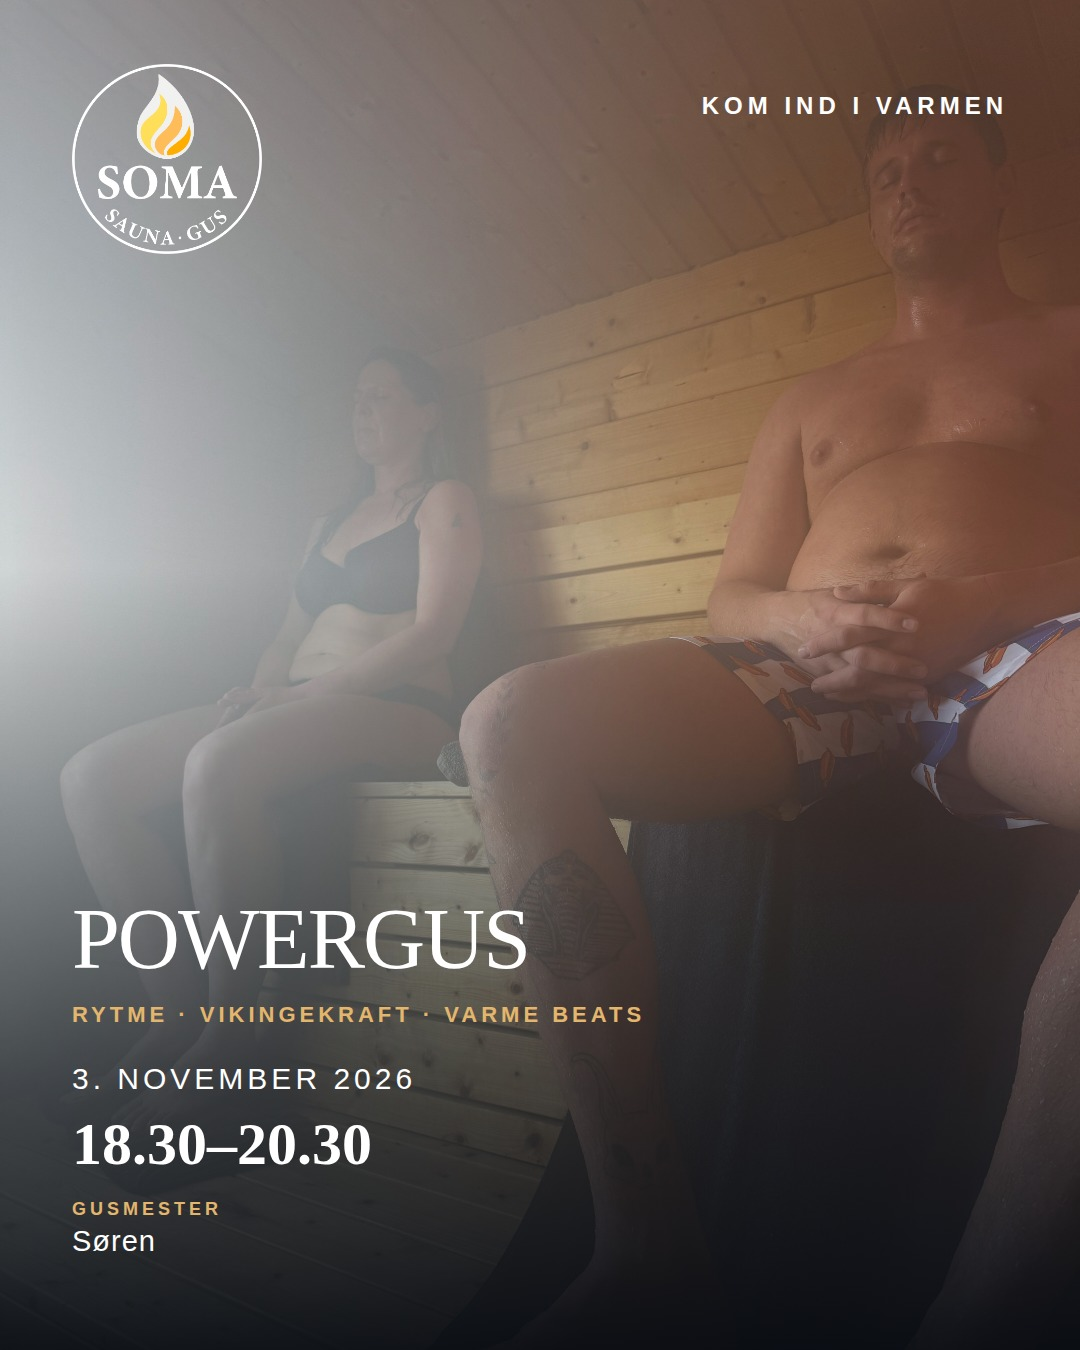
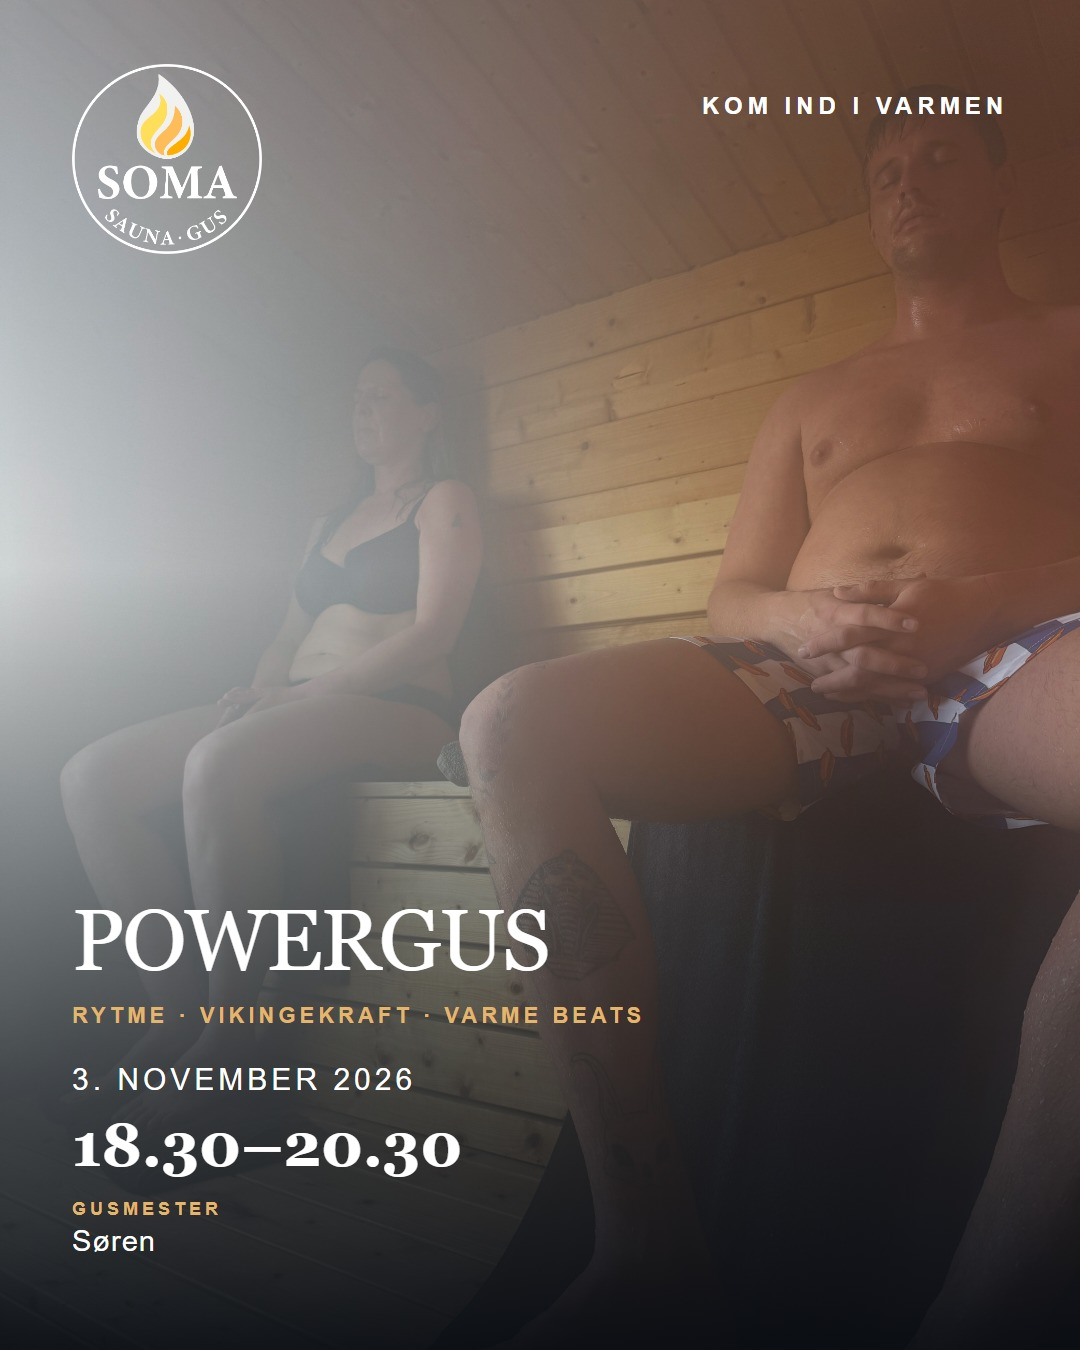
choose-instructor: 2026-11-03_18-30_saunagus_event-day_r4 (soren) via lokal godkendelsesside

diff --git a/outputs/content-planner/approval/drafts-data.js b/outputs/content-planner/approval/drafts-data.js
@@ -201,7 +201,7 @@ window.__SOMA_DRAFTS__ = window.__SOMA_DRAFTS__ || [
[1 lines of base64/hex data omitted]
     "revision": 4,
     "kind": "event_day",
-    "status": "needs_review",
+    "status": "draft",
     "scheduledFor": "2026-11-03T12:00:00+01:00",
     "season": "winter",
     "event": {
@@ -211,7 +211,7 @@ window.__SOMA_DRAFTS__ = window.__SOMA_DRAFTS__ || [
       "name": "Saunagus",
       "booked": 1,
       "capacity": 12,
-      "instructor": null,
+      "instructor": "Søren",
       "description": null,
       "sourceText": "18:30 - 20:30 SAUNAGUS 1/12 Tilmeld",
       "sourceUrl": "https://somasaunagus.dk/kalender/",
@@ -224,14 +224,12 @@ window.__SOMA_DRAFTS__ = window.__SOMA_DRAFTS__ || [
       "label": "11 ledige pladser",
       "soldOut": false
     },
-    "warnings": [
-      "instructor_missing"
-    ],
+    "warnings": [],
     "platformCopies": {
-      "instagram": "I dag: Giv dig selv et varmt pusterum.\n\nSaunagus\n\n3. november 2026 · 18.30–20.30\n\n11 ledige pladser.\n\nBook din plads: https://somasaunagus.dk/kalender/",
-      "facebookPage": "Dato og tid: 3. november 2026 · 18.30–20.30\n\n11 ledige pladser.\n\nBook din plads: https://somasaunagus.dk/kalender/\n\nI dag kan du træde ind i varmen til et saunagus.\n\nGiv dig selv et varmt pusterum.\n\nEt saunagus med varme, dufte, musik og nærvær.\n\nDu er velkommen præcis, som du er."
+      "instagram": "I dag: Kom ind i varmen, land i kroppen og vær lige her.\n\n3. november 2026 · 18.30–20.30\n\n11 ledige pladser.\n\nBook din plads: https://somasaunagus.dk/kalender/",
+      "facebookPage": "Dato og tid: 3. november 2026 · 18.30–20.30\n\n11 ledige pladser.\n\nBook din plads: https://somasaunagus.dk/kalender/\n\nI dag kan du træde ind i varmen til et saunagus.\n\nKom ind i varmen, land i kroppen og vær lige her.\n\nMusikken får mere fylde og rytme uden at skubbe roen til side.\n\nEn sanselig stund med plads til både styrke og velvære."
     },
[2 lines of base64/hex data omitted]
     "factsUsed": [
       "event.date",
       "event.start",
@@ -244,11 +242,11 @@ window.__SOMA_DRAFTS__ = window.__SOMA_DRAFTS__ || [
       "path": "renders/2026-11-03_18-30_saunagus_event-day-1f3440e091.jpg",
       "width": 1080,
       "height": 1350,
[2 lines of base64/hex data omitted]
     },
     "renderPath": "renders/2026-11-03_18-30_saunagus_event-day-1f3440e091.jpg",
-    "manualInstructor": null,
-    "manualAssetId": null,
+    "manualInstructor": "Søren",
+    "manualAssetId": "soma-power-steam",
     "instructorOptions": {
       "soren": {
         "instructor": "Søren",
@@ -262,7 +260,7 @@ window.__SOMA_DRAFTS__ = window.__SOMA_DRAFTS__ || [
           "path": "renders/2026-11-03_18-30_saunagus_event-day-1f3440e091-soren.jpg",
           "width": 1080,
           "height": 1350,
[2 lines of base64/hex data omitted]
         },
         "renderPath": "renders/2026-11-03_18-30_saunagus_event-day-1f3440e091-soren.jpg"
       },
@@ -273,18 +271,25 @@ window.__SOMA_DRAFTS__ = window.__SOMA_DRAFTS__ || [
           "instagram": "I dag: Et roligt rum midt i alt det, der skal nås.\n\nMilleMaja fra Betterlife by Yndigegn\n\n3. november 2026 · 18.30–20.30\n\n11 ledige pladser.\n\nBook din plads: https://somasaunagus.dk/kalender/",
           "facebookPage": "Dato og tid: 3. november 2026 · 18.30–20.30\n\n11 ledige pladser.\n\nBook din plads: https://somasaunagus.dk/kalender/\n\nI dag kan du træde ind i varmen til et saunagus med MilleMaja.\n\nEt roligt rum midt i alt det, der skal nås.\n\nMilleMaja guider en sanselig og meditativ oplevelse med roligt tempo og plads til at være.\n\nDu må komme præcis, som du er."
         },
-        "assetId": "soma-img-6689",
+        "assetId": "soma-power-steam",
         "render": {
           "path": "renders/2026-11-03_18-30_saunagus_event-day-1f3440e091-millemaja.jpg",
           "width": 1080,
           "height": 1350,
[2 lines of base64/hex data omitted]
         },
         "renderPath": "renders/2026-11-03_18-30_saunagus_event-day-1f3440e091-millemaja.jpg"
       }
     },
-    "history": [],
[1 lines of base64/hex data omitted]
+    "history": [
+      {
+        "at": "2026-11-03T06:37:38.178Z",
+        "type": "change_instructor",
+        "from": "needs_review",
+        "to": "draft"
+      }
+    ],
[1 lines of base64/hex data omitted]
     "approvedAt": null,
     "approvedBy": null,
     "approvedRevision": null,
